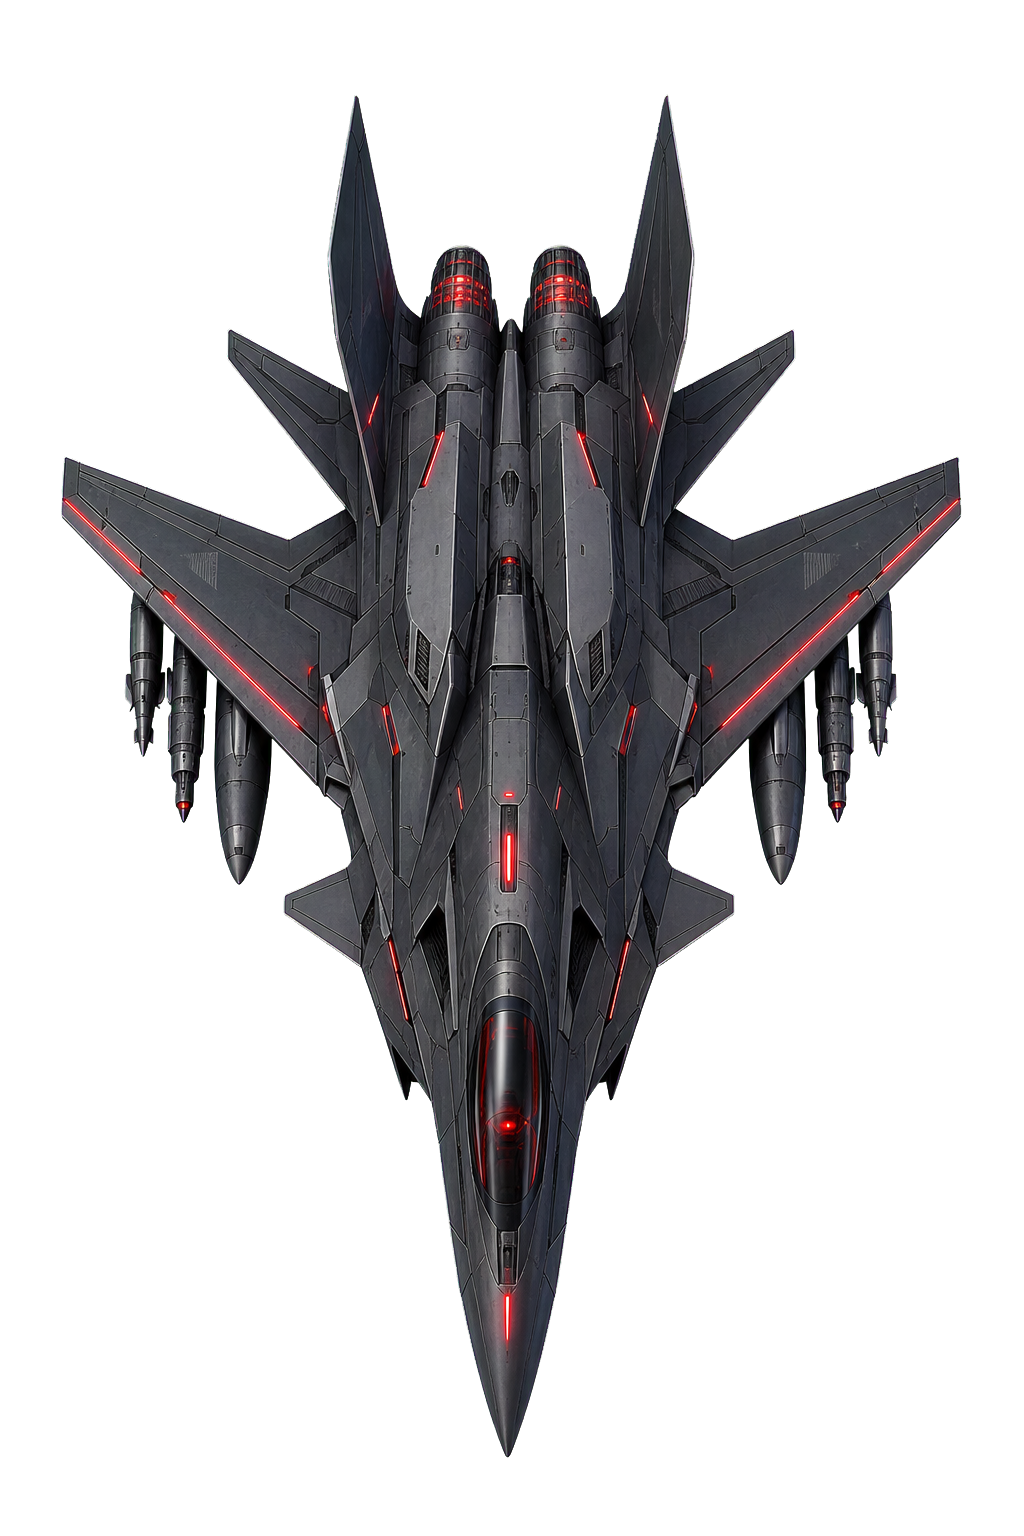
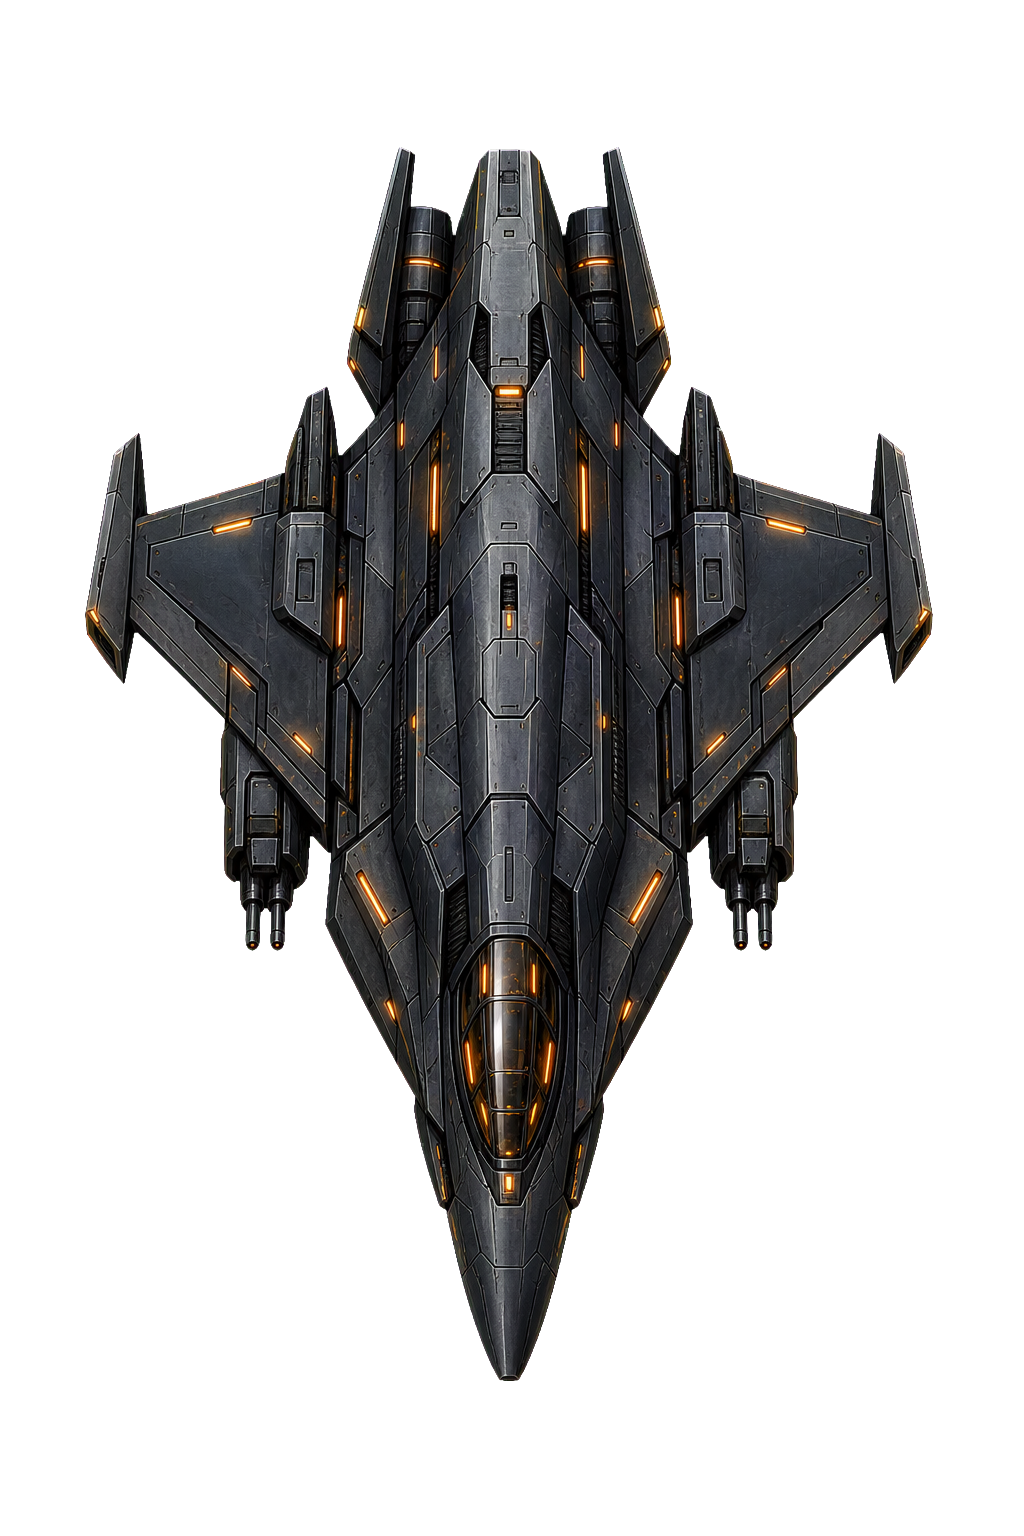
M4f-13 plane 敌机贴图替换为高清美术资源（bomber/carrier 独立贴图）

Changed region(s): [[0.0625, 0.0625, 0.9375, 0.9688]]

diff --git a/games/plane/src/assets/manifest.ts b/games/plane/src/assets/manifest.ts
@@ -7,6 +7,8 @@ export const planeManifest: AssetManifest = {
         { key: 'enemy-2', url: 'static/飞机png/enemy/enemy-2.png' },
         { key: 'enemy-3', url: 'static/飞机png/enemy/enemy-3.png' },
         { key: 'enemy-4', url: 'static/飞机png/enemy/enemy-4.png' },
-        { key: 'enemy-5', url: 'static/飞机png/enemy/enemy-5.png' }
+        { key: 'enemy-5', url: 'static/飞机png/enemy/enemy-5.png' },
+        { key: 'enemy-6', url: 'static/飞机png/enemy/enemy-6.png' },
+        { key: 'enemy-7', url: 'static/飞机png/enemy/enemy-7.png' }
     ]
 };

diff --git a/games/plane/src/data/enemyTypes.ts b/games/plane/src/data/enemyTypes.ts
@@ -91,7 +91,7 @@ export const ENEMY_TYPES: Record<EnemyTypeKey, EnemyType> = {
         h: 56,
         vyMin: 15,
         vyMax: 30,
-        sprite: 'enemy-4'
+        sprite: 'enemy-6'
     },
     carrier: {
         label: '母舰',
@@ -103,6 +103,6 @@ export const ENEMY_TYPES: Record<EnemyTypeKey, EnemyType> = {
         h: 70,
         vyMin: 11,
         vyMax: 21,
-        sprite: 'enemy-5'
+        sprite: 'enemy-7'
     }
 };
